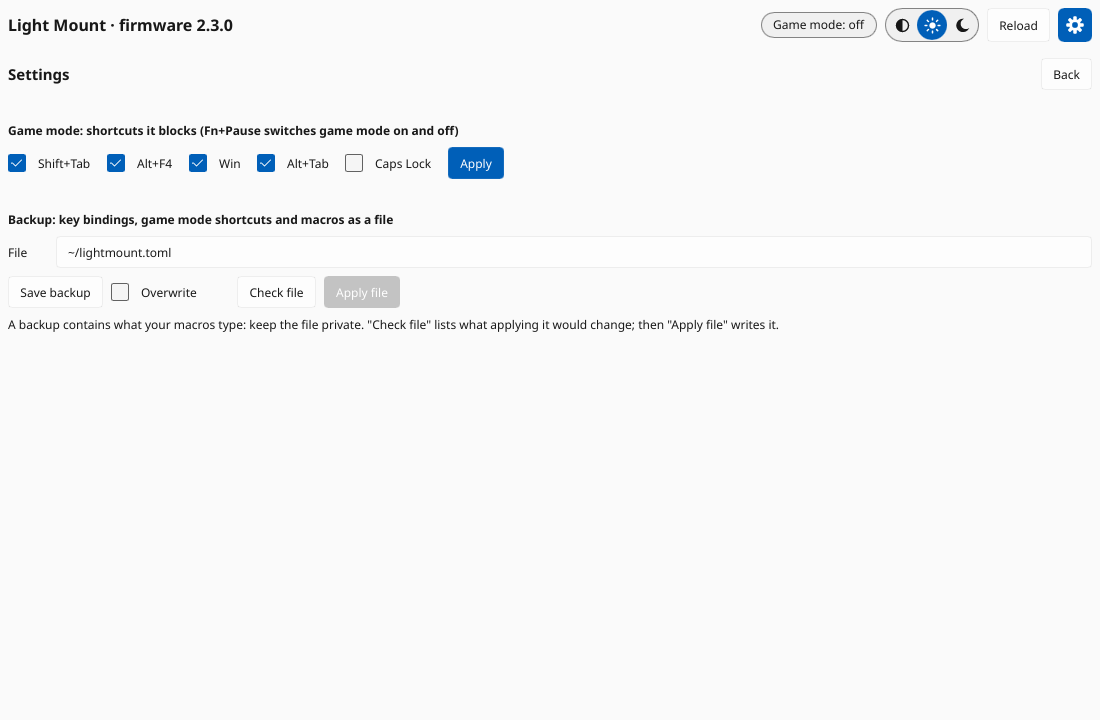
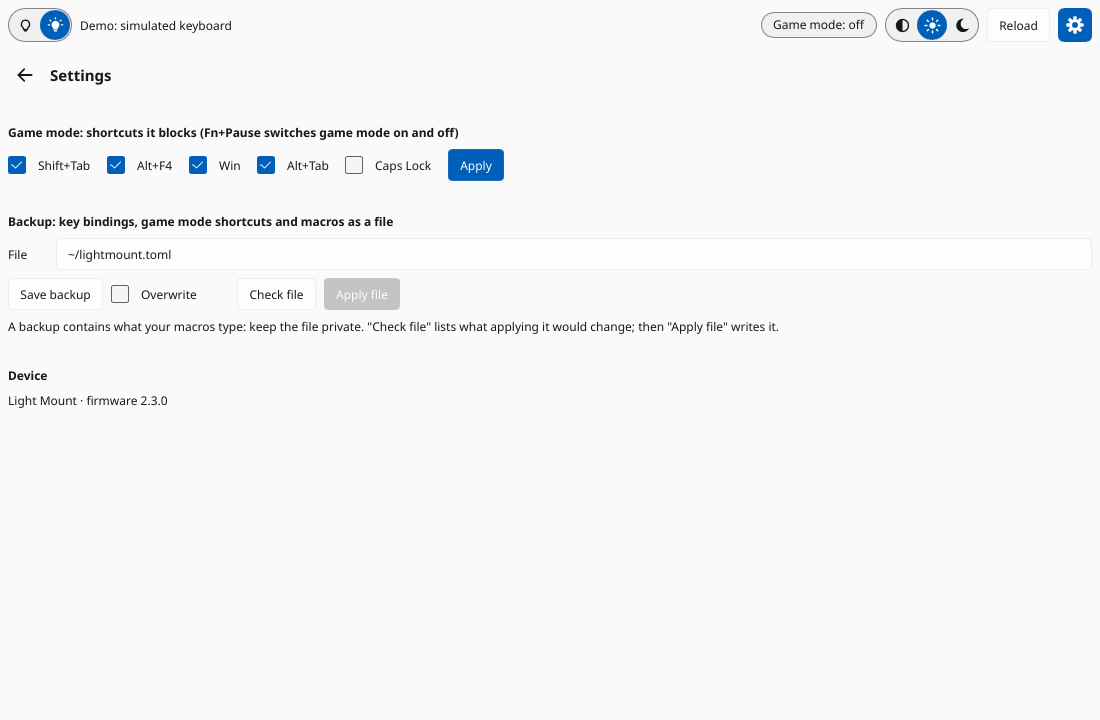
GUI: lighting switch in the title line, effect without Apply, settings back arrow
- The effect applies at once: effect, colors, sliders and direction.
  Each change is applied 0.4 s after the last one, so a slider drag does
  not write to the keyboard many times. The "Apply" button and the
  Off/On group are gone.
- At the left of the title line, a bulb switch turns the lighting off
  and on. "On" shows the stored effect, or the painted keys in the
  Per key view.
- Model and firmware move to Settings > Device. The title line shows a
  note only when no keyboard is connected, the firmware is untested, or
  in the demo.
- Settings has a back arrow at the top left; the gear still toggles.
- ThemeSwitch becomes IconSwitch, used for the theme and the lighting.
  New icons (bulb on/off, arrow left), our own SVGs.

diff --git a/crates/quietlinux-gui/src/main.rs b/crates/quietlinux-gui/src/main.rs
@@ -77,9 +77,9 @@ const BIND_KINDS: [(&str, &str); 7] = [
     ("disable", "Disabled"),
 ];
 
-/// A changed color is applied this long after the last change: the effect is
-/// stored in the keyboard, so not every step of a drag is written.
-const COLOR_DELAY: Duration = Duration::from_millis(400);
+/// A changed effect is applied this long after the last change: it is stored
+/// in the keyboard, so not every step of a drag or slider is written.
+const EFFECT_DELAY: Duration = Duration::from_millis(400);
 
 /// Painted keys are sent this long after the last click, so that quick clicks
 /// go out together. Per-key colors are volatile: no flash memory is written.
@@ -129,7 +129,7 @@ struct Controller {
     pending: Pending,
     /// A game mode poll is on its way.
     polling: bool,
-    /// Applies changed colors after [`COLOR_DELAY`].
+    /// Applies a changed effect after [`EFFECT_DELAY`].
     color_timer: slint::Timer,
     /// Per-key colors painted in the window, by LED index.
     painted: BTreeMap<u8, Rgb>,
@@ -251,12 +251,16 @@ impl Controller {
             Ok(reply) => {
                 let state = reply.state;
                 ui.set_connected(true);
-                let title = if state.writable {
-                    state.title.clone()
+                ui.set_device_title(state.title.as_str().into());
+                let note = if !state.writable {
+                    "Read-only: firmware not tested"
+                } else if self.remember {
+                    ""
                 } else {
-                    format!("{} (read-only: firmware not tested)", state.title)
+                    "Demo: simulated keyboard"
                 };
-                ui.set_device_title(title.into());
+                ui.set_device_note(note.into());
+                ui.set_lighting_on(i32::from(state.lighting_mode != Some(LightingMode::Off)));
                 ui.set_status_error(false);
                 ui.set_status(reply.message.into());
                 if let Some(details) = reply.details {
@@ -293,7 +297,8 @@ impl Controller {
             Err(e) => {
                 if pending == Pending::Refresh {
                     ui.set_connected(false);
-                    ui.set_device_title("No Light Mount connected".into());
+                    ui.set_device_title("".into());
+                    ui.set_device_note("No Light Mount connected".into());
                 }
                 show_error(ui, &e);
             }
@@ -714,17 +719,17 @@ impl Controller {
         }
     }
 
-    /// A color changed: apply the effect soon, unless more changes follow.
-    fn colors_changed(&mut self, _: &AppWindow) {
+    /// The effect changed: apply it soon, unless more changes follow.
+    fn effect_changed(&mut self, _: &AppWindow) {
         self.color_timer
-            .start(slint::TimerMode::SingleShot, COLOR_DELAY, || {
+            .start(slint::TimerMode::SingleShot, EFFECT_DELAY, || {
                 with_controller(|c, ui| {
                     if !ui.get_connected() {
                         return;
                     }
                     if ui.get_busy() {
                         // the last change is not lost: try again later
-                        c.colors_changed(ui);
+                        c.effect_changed(ui);
                     } else {
                         c.apply_effect(ui, true);
                     }
@@ -732,8 +737,16 @@ impl Controller {
             });
     }
 
-    fn store_effect(&mut self, ui: &AppWindow) {
-        self.apply_effect(ui, false);
+    /// The lighting switch in the title line: off, or on with what the Lighting
+    /// tab shows (the stored effect, or the painted keys).
+    fn lighting_chosen(&mut self, ui: &AppWindow) {
+        if ui.get_lighting_on() == 0 {
+            self.send(ui, Request::LightOff);
+        } else if ui.get_lighting_view() == 1 && !self.painted.is_empty() {
+            self.send_paint(ui);
+        } else {
+            self.send(ui, Request::LightOn);
+        }
     }
 
     /// Store the effect. `quiet`: a color still being typed is no error.
@@ -960,16 +973,14 @@ fn set_up(ui: &AppWindow) {
     ui.on_check_file(|| with_controller(Controller::check_file));
     ui.on_apply_file(|| with_controller(Controller::apply_file));
     ui.on_refresh(|| with_controller(|c, ui| c.send(ui, Request::Refresh)));
-    ui.on_store_effect(|| with_controller(Controller::store_effect));
-    ui.on_colors_changed(|| with_controller(Controller::colors_changed));
+    ui.on_effect_changed(|| with_controller(Controller::effect_changed));
+    ui.on_lighting_chosen(|| with_controller(Controller::lighting_chosen));
     ui.on_paint_key(|code| with_controller(|c, ui| c.paint_key(ui, &code, false)));
     ui.on_erase_key(|code| with_controller(|c, ui| c.paint_key(ui, &code, true)));
     ui.on_paint_all(|| with_controller(Controller::paint_all));
     ui.on_paint_clear(|| with_controller(Controller::paint_clear));
     ui.on_zones_changed(|| with_controller(|c, _| c.schedule_paint()));
     ui.on_back_to_effect(|| with_controller(|c, ui| c.send(ui, Request::LightOn)));
-    ui.on_light_off(|| with_controller(|c, ui| c.send(ui, Request::LightOff)));
-    ui.on_light_on(|| with_controller(|c, ui| c.send(ui, Request::LightOn)));
     ui.on_key_clicked(|code| with_controller(|c, ui| c.select_key(ui, &code)));
     ui.on_editor_changed(|| with_controller(Controller::editor_changed));
     ui.on_apply_binding(|| with_controller(Controller::apply_binding));
@@ -1037,7 +1048,7 @@ fn run(cli: Cli) -> Result<(), Box<dyn std::error::Error>> {
         });
     });
     let backend = if cli.demo {
-        ui.set_device_title("Demo: simulated Light Mount".into());
+        ui.set_device_note("Demo: simulated keyboard".into());
         Backend::demo()
     } else {
         Backend::Hardware {

diff --git a/docs/usage-gui.md b/docs/usage-gui.md
@@ -14,7 +14,12 @@ reads it again). While a change is being sent, the status line at the bottom
 says "Working …"; errors appear there in red. The window does not watch key
 presses.
 
-The title line shows whether **game mode** is on. Game mode is switched on the
+The switch at the left of the title line turns the **lighting off and on**
+(bulb off, bulb on): on shows the stored effect, or the painted keys if the
+Lighting tab shows **Per key**. Next to it, a note appears when no keyboard is
+connected or its firmware is untested (read-only).
+
+The title line also shows whether **game mode** is on. Game mode is switched on the
 keyboard with Fn+Pause, so the window asks for it every 2 seconds (a read-only
 request; not while a change is being sent).
 
@@ -23,12 +28,11 @@ light (sun) or dark (moon); click a position. The choice is saved in
 `~/.config/quietlinux/gui.toml`. The gear in the corner opens the
 [settings](#settings).
 
+On a firmware version QuietLinux was not tested with, every change is refused,
+like the command line without `--allow-unknown-firmware`.
+
 The window does not support screen readers yet (see [todo.md](todo.md)); the
 command line tool does everything it does.
-
-On a firmware version QuietLinux was not tested with, the title says
-"read-only" and every change is refused, like the command line without
-`--allow-unknown-firmware`.
 
 ## Lighting
 
@@ -48,16 +52,14 @@ view, not the keyboard.
 - **Pick …** (or a click on the swatch) opens a color wheel: the hue around
   the circle, pale colors towards the center; the slider below sets how bright
   the color is.
-- **Colors are applied right away**: when you let go of the color wheel or its
-  slider, choose another color mode, or have typed six hex digits (after a
-  short pause, so that a drag does not write to the keyboard many times).
-- **Apply** stores the effect with the other settings in the keyboard.
+- **Every change applies at once** and is stored in the keyboard: a choice in a
+  list, a slider, a color from the wheel (when you let go) or six typed hex
+  digits. A short pause (0.4 s) after the last change keeps a drag from
+  writing to the keyboard many times.
 - The Light Mount does not report its effect. QuietLinux remembers the last
   effect it set (window or command line) in `~/.config/quietlinux/last-effect.toml`
   and fills the fields with it when the window opens. An effect set with IO
   Center is not known to it.
-- **Off** / **On** switch the lighting off and on, like IO Center's switch. The
-  effect stays stored.
 
 ### Per key
 
@@ -123,7 +125,7 @@ keyboard has no other way), as described in
 ![The settings](images/gui-settings.png)
 
 The gear in the top right corner shows the settings instead of the tabs; the
-gear again or **Back** returns.
+arrow at the top left (or the gear again) returns to the tabs.
 
 - **Game mode**: the shortcuts game mode blocks, as `quietlinux game-mode
   --block`. Fn+Pause switches game mode on and off.
@@ -133,6 +135,7 @@ gear again or **Back** returns.
   **Check file** lists what applying it would change, without writing; only
   then **Apply file** writes it. `~/` is your home folder. The file contains
   what your macros type: keep it private.
+- **Device**: model and firmware version of the keyboard.
 
 ## Not in the window yet
 
